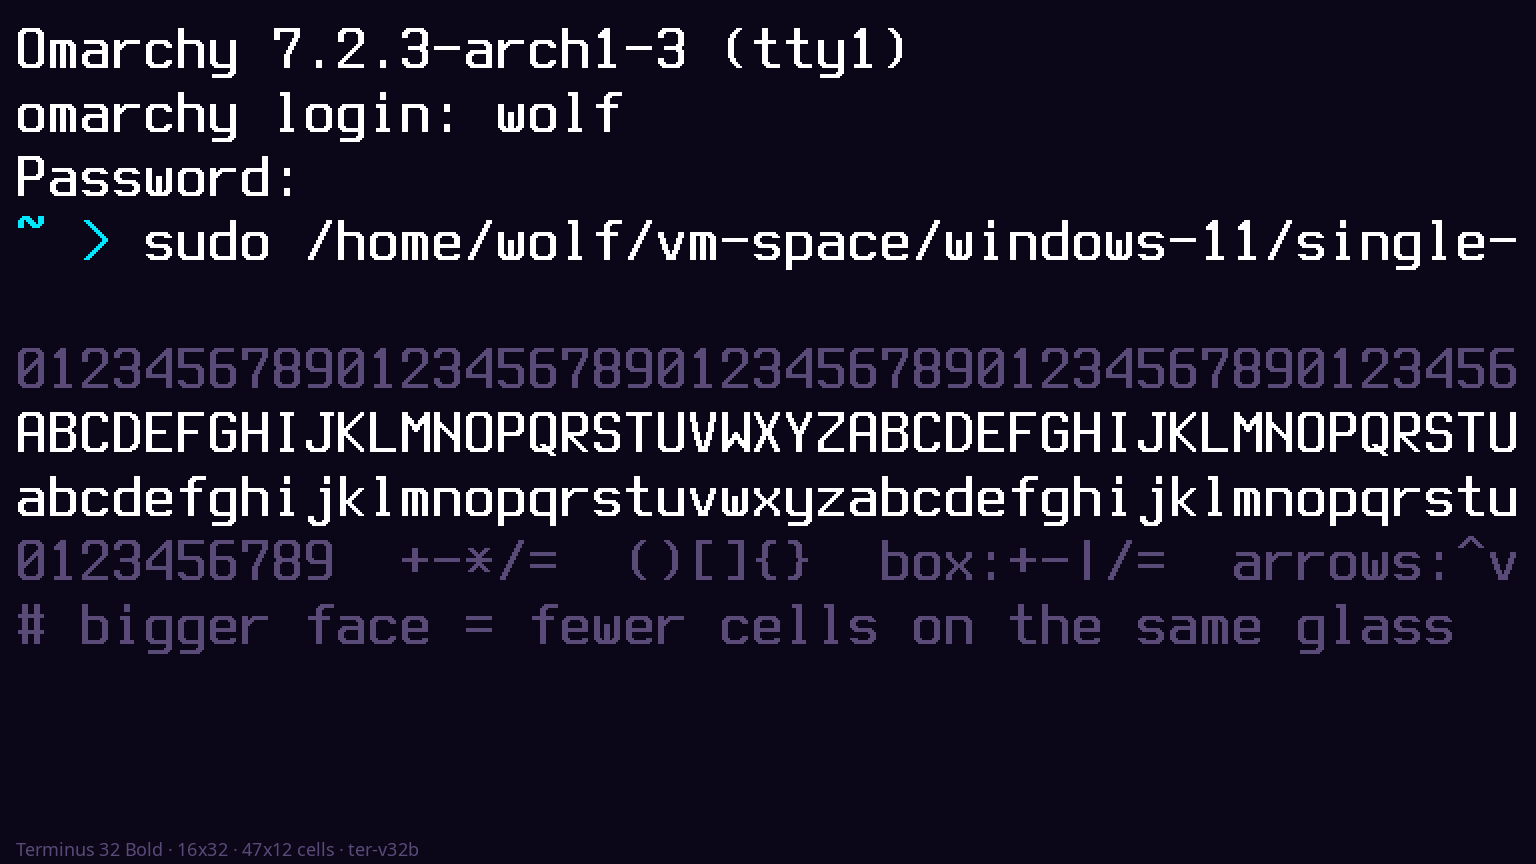
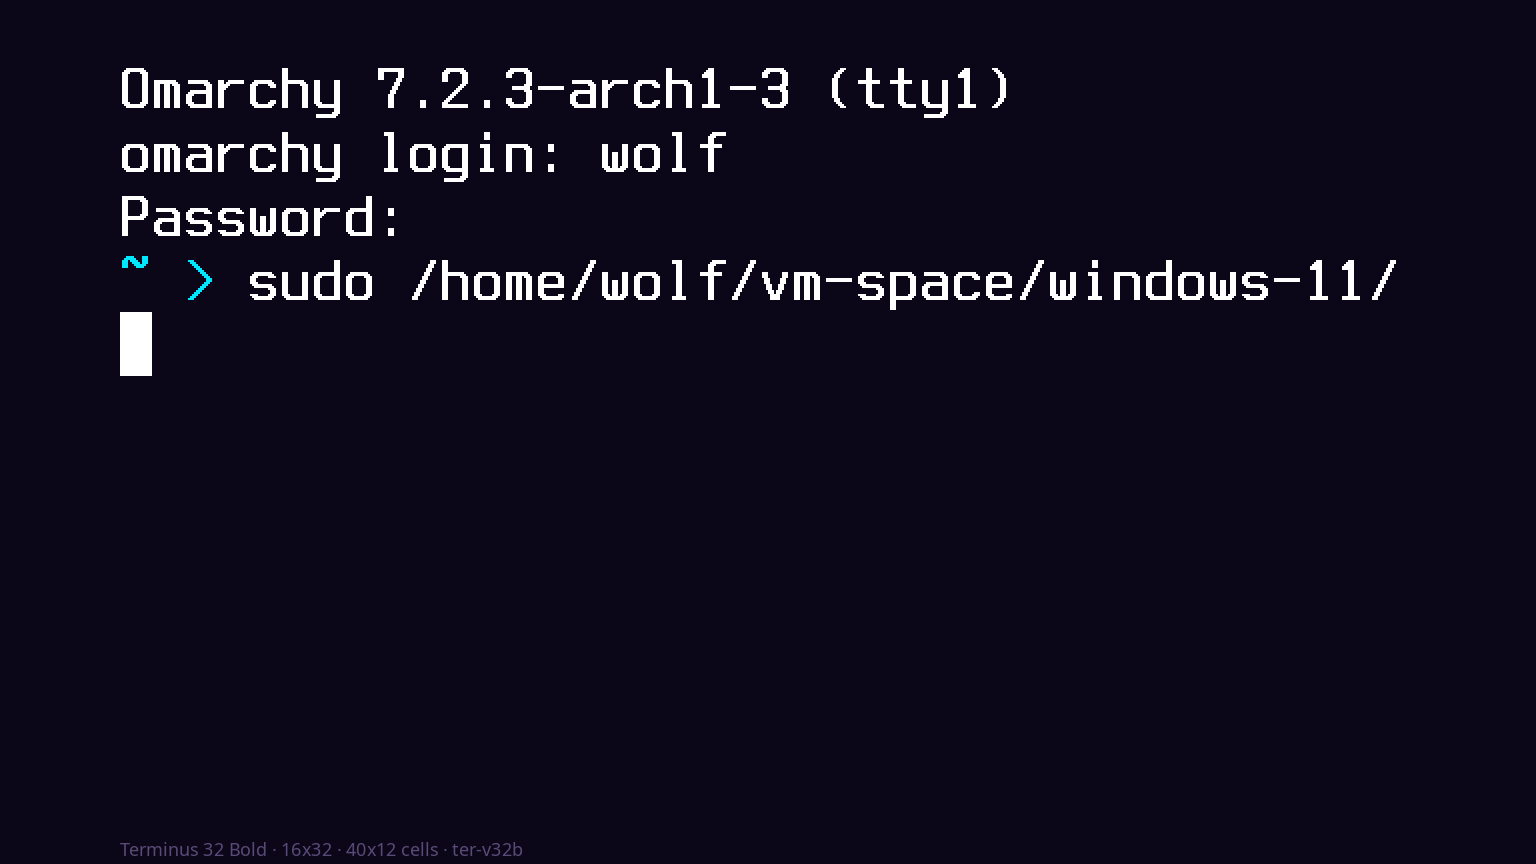
Carousel-safe insets; drop extra alphabet rows from font mockups.
Only the captured getty session remains — fat Terminus still crops the
passthrough path. Content lives inside SAFE_X for the Style tile chop.

diff --git a/lib/omatty.py b/lib/omatty.py
@@ -666,8 +666,8 @@ def render_mockup(font_id: str, dest: Path | None = None) -> Path:
     way a real TTY does — not a larger picture with airier letterspacing.
 
     Session script matches OmaVT (QEMU default-TTY capture): getty on tty1,
-    login wolf, single-GPU passthrough starter. Extra glyph rows follow so
-    small faces look roomy and fat Terminus still clips.
+    login wolf, single-GPU passthrough starter — only that session, no extra
+    alphabet rows. Content stays inside SAFE_X for the Style carousel crop.
     """
     item = CURATED_BY_ID.get(font_id)
     if item is None:
@@ -682,10 +682,11 @@ def render_mockup(font_id: str, dest: Path | None = None) -> Path:
     muted = _hex_rgb(colors["muted"])
     cyan = _hex_rgb(colors["cyan"])
 
-    # Match omarchy-menu-images thumbnail size (1536×864). Real TTY is
-    # top-left; no card chrome — the Style tile crop mostly shaves empty sides.
+    # Match omarchy-menu-images thumbnail size (1536×864). Side crop on the
+    # 768×475 Style tile shaves ~8%; keep the VT pane inside that margin.
     w, h = 1536, 864
-    footer_h = 36
+    safe_x, safe_y = 120, 56
+    footer_h = 40
 
     # Constant zoom so glyph size alone decides how much fits — same as a
     # real framebuffer. (Shrinking scale for big faces would fit *more*
@@ -693,8 +694,8 @@ def render_mockup(font_id: str, dest: Path | None = None) -> Path:
     scale = 2
     cell_w = max(1, font.width * scale)
     cell_h = max(1, font.height * scale)
-    term_x, term_y = 16, 16
-    term_w = w - term_x * 2
+    term_x, term_y = safe_x, safe_y
+    term_w = w - safe_x * 2
     term_h = h - term_y - footer_h
     cols = max(8, term_w // cell_w)
     rows = max(3, term_h // cell_h)
@@ -707,22 +708,13 @@ def render_mockup(font_id: str, dest: Path | None = None) -> Path:
     banner = tty_banner("tty1")
     prompt = "~ > "
     command = "sudo /home/wolf/vm-space/windows-11/single-gpu-start.sh"
-    ruler = "".join(str(i % 10) for i in range(160))
-    alphabet = "ABCDEFGHIJKLMNOPQRSTUVWXYZ"
-    lower = "abcdefghijklmnopqrstuvwxyz"
 
-    # (text, color) rows — session first, then glyph demo that crops on fat faces.
+    # Just the captured getty session — fat faces crop the path; that is enough.
     lines: list[tuple[str, tuple[int, int, int]]] = [
         (banner, fg),
         ("omarchy login: wolf", fg),
         ("Password:", fg),
-        (prompt + command, cyan),  # whole line cyan-ish; split below when drawing
-        ("", fg),
-        (ruler, muted),
-        (alphabet * 3, fg),
-        (lower * 3, fg),
-        ("0123456789  +-*/=  ()[]{}  box:+-|/=  arrows:^v<>  " * 3, muted),
-        ("# bigger face = fewer cells on the same glass", muted),
+        (prompt + command, cyan),
     ]
 
     term_layer = Image.new("RGB", (term_w, term_h), bg)
@@ -731,16 +723,13 @@ def render_mockup(font_id: str, dest: Path | None = None) -> Path:
         if row_i >= rows:
             break
         if text == prompt + command:
-            # Prompt accent + command — matches the QEMU capture.
             draw_text(term_layer, font, prompt[:cols], 0, row_i * cell_h, cyan, bg, scale)
-            rest = command
-            # Continue command on same row after prompt width in cells.
             prompt_cells = len(prompt)
             if prompt_cells < cols:
                 draw_text(
                     term_layer,
                     font,
-                    rest[: cols - prompt_cells],
+                    command[: cols - prompt_cells],
                     prompt_cells * cell_w,
                     row_i * cell_h,
                     fg,
@@ -752,10 +741,20 @@ def render_mockup(font_id: str, dest: Path | None = None) -> Path:
         draw_text(term_layer, font, text[:cols], 0, row_i * cell_h, color, bg, scale)
         row_i += 1
 
+    # Block cursor on the next row when it fits.
+    if row_i < rows:
+        draw_text(term_layer, font, " ", 0, row_i * cell_h, fg, bg, scale)
+        # Solid cell as cursor
+        cursor = ImageDraw.Draw(term_layer)
+        cursor.rectangle(
+            (0, row_i * cell_h, cell_w - 1, (row_i + 1) * cell_h - 1),
+            fill=fg,
+        )
+
     img.paste(term_layer, (term_x, term_y))
 
     badge = f"{item['label']} · {font.width}x{font.height} · {cols}x{rows} cells · {item['file']}"
-    draw.text((term_x, h - 28), badge, font=ui_sm, fill=muted)
+    draw.text((safe_x, h - 28), badge, font=ui_sm, fill=muted)
 
     dest = dest or preview_path(font_id)
     save_png_atomic(img, dest)

diff --git a/README.md b/README.md
@@ -36,7 +36,7 @@ live in [Chroma](https://github.com/AlxWolfenstein97/chroma).
 | Zero extra theme assets | No per-theme font previews. Glyphs come from installed PSF files. |
 | Extreme compatibility | Works beside any Omarchy theme; pairs with [OmaVT](https://github.com/AlxWolfenstein97/omavt) for palette. |
 | Closest-to-real mockups | Actual PSF bitmaps on a top-left getty session (same script as OmaVT). Still not a live `/dev/tty` capture. |
-| Carousel-safe | Mockups are 1536×864. Session is top-left; bigger faces crop mid-command like a real framebuffer. |
+| Carousel-safe | Mockups are 1536×864 with ~8% side inset. Session stays top-left *inside* that margin; bigger faces crop mid-command like a real framebuffer. |
 | Curated, not exhaustive | archinstall lists every console font; Style keeps a Terminus-first set so the picker stays usable. |
 
 ### Why a Style picker for fonts?
